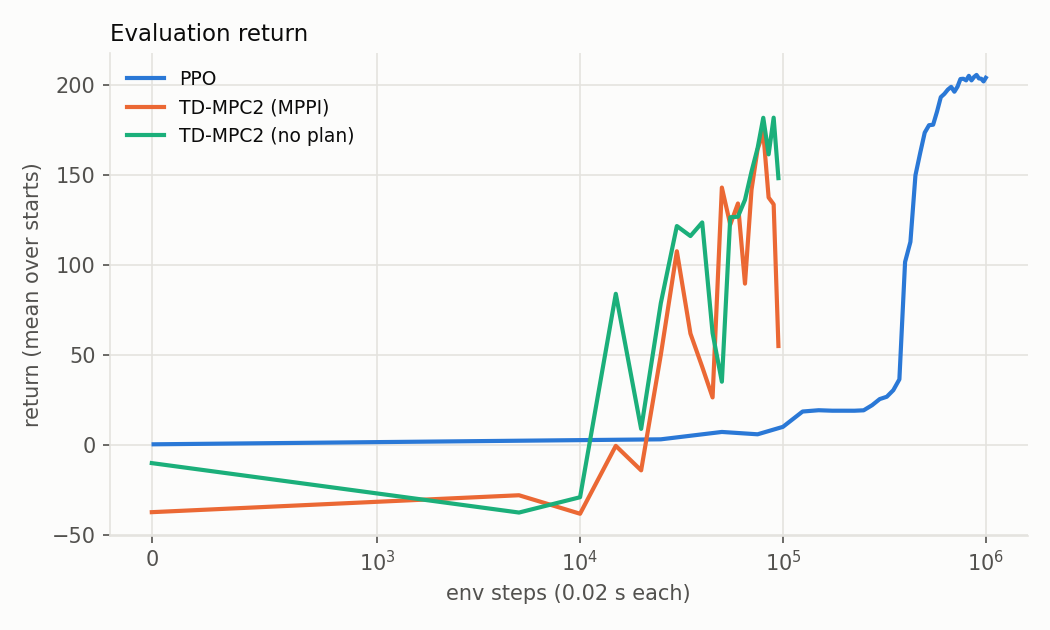
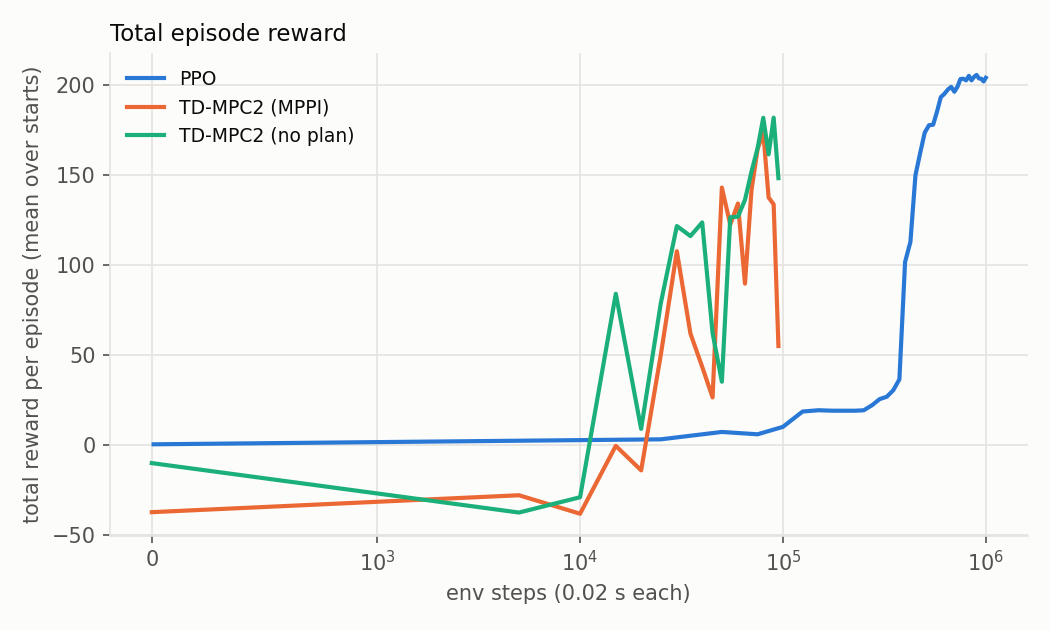
elaborated on the word return

diff --git a/plot_curves.py b/plot_curves.py
@@ -1,4 +1,4 @@
-"""Plot the benchmark learning curves: evaluation return vs env steps, one line per algorithm.
+"""Plot the benchmark learning curves: total episode reward vs env steps, one line per algorithm.
 
 Reads the evaluation logs the trainers write during training (results/<model name>.csv, every eval_every
 steps). Settings: configs/plot_curves.yaml; override any of them as key=value.
@@ -29,7 +29,7 @@ def read_log(path):
 
 def main():
     cfg = load_config("plot_curves")
-    curves = {}  # label: (env steps, return)
+    curves = {}  # label: (env steps, total episode reward)
     for label, curve in cfg.curves.items():
         log = read_log(curve.file) if os.path.exists(curve.file) else None
         if log and curve.column in log:
@@ -43,9 +43,9 @@ def main():
     ax.set_facecolor(SURFACE)
     for (label, (step, y)), color in zip(curves.items(), SERIES):
         ax.plot(step, y, color=color, lw=2, label=label)
-    ax.set_title("Evaluation return", loc="left", fontsize=11, color=TEXT)
+    ax.set_title("Total episode reward", loc="left", fontsize=11, color=TEXT)
     ax.set_xlabel("env steps (0.02 s each)")
-    ax.set_ylabel("return (mean over starts)")
+    ax.set_ylabel("total reward per episode (mean over starts)")
     if cfg.log_x:
         ax.set_xscale("symlog", linthresh=1e3)  # symlog: the first evaluation is at step 0
         top = max(max(step) for step, _ in curves.values())

diff --git a/README.md b/README.md
@@ -15,22 +15,24 @@ TD-MPC2 is shown twice: acting with MPPI planning (the actual algorithm), and wi
   </tr>
 </table>
 
-![Evaluation return vs env steps](docs/learning_curves.png)
+![Total episode reward vs env steps](docs/learning_curves.png)
 
 
 
 | | PPO | TD-MPC2 (MPPI) | TD-MPC2 (no plan) |
 |---|---|---|---|
-| Return | 203 | 94 | 165 |
+| Total episode reward | 203 | 94 | 165 |
 | Final distance to start point | 0.07 m | 0.55 m | 0.32 m |
 | Speed, last 0.5 s | 0.001 m/s | 1.5 m/s | 0.09 m/s |
 | Crashes | 0/5 | 0/5 | 0/5 |
-| Env steps to first reach return 150 | 475k | 20k | 30k |
+| Env steps to first reach total reward 150 | 475k | 20k | 30k |
 | Training steps / wall-clock time | 1M / 21 min | 60k / 71 min | (same run) |
 | Model size (trained parameters) | 40k | 331k | (same model) |
 | Inference time per step, median (p99) | 0.2 ms (0.6 ms) | 18 ms (25 ms) | 0.5 ms (1.4 ms) |
 
-TD-MPC2 learns the flip with about 20× fewer env steps, but its evaluation return swings a lot from one evaluation to the next. PPO needs far more env steps but less wall-clock time, and ends steadier: it hovers back at the start point.
+TD-MPC2 learns the flip with about 20× fewer env steps, but its total episode reward swings a lot from one evaluation to the next. PPO needs far more env steps but less wall-clock time, and ends steadier: it hovers back at the start point.
+
+Total episode reward is the sum of the per-step rewards over one evaluation episode (no discounting), averaged over 5 fixed starts.
 
 Inference time is the wall-clock time to compute one action from one observation, on a laptop CPU (Intel i7-1065G7, PyTorch CPU build, batch size 1).
 
@@ -82,7 +84,7 @@ tensorboard --logdir runs
 # MPPI size and the rest are in configs/tdmpc2.yaml.
 python -m tdmpc2.train_tdmpc2 task=flip
 
-# learning curves: evaluation return vs env steps, from the logs both trainers write
+# learning curves: total episode reward vs env steps, from the logs both trainers write
 python plot_curves.py
 
 # watch a model: policy is zero, hover, random, scripted_hover, scripted_flip, or any model in models/ (ppo_*, tdmpc2_*)
